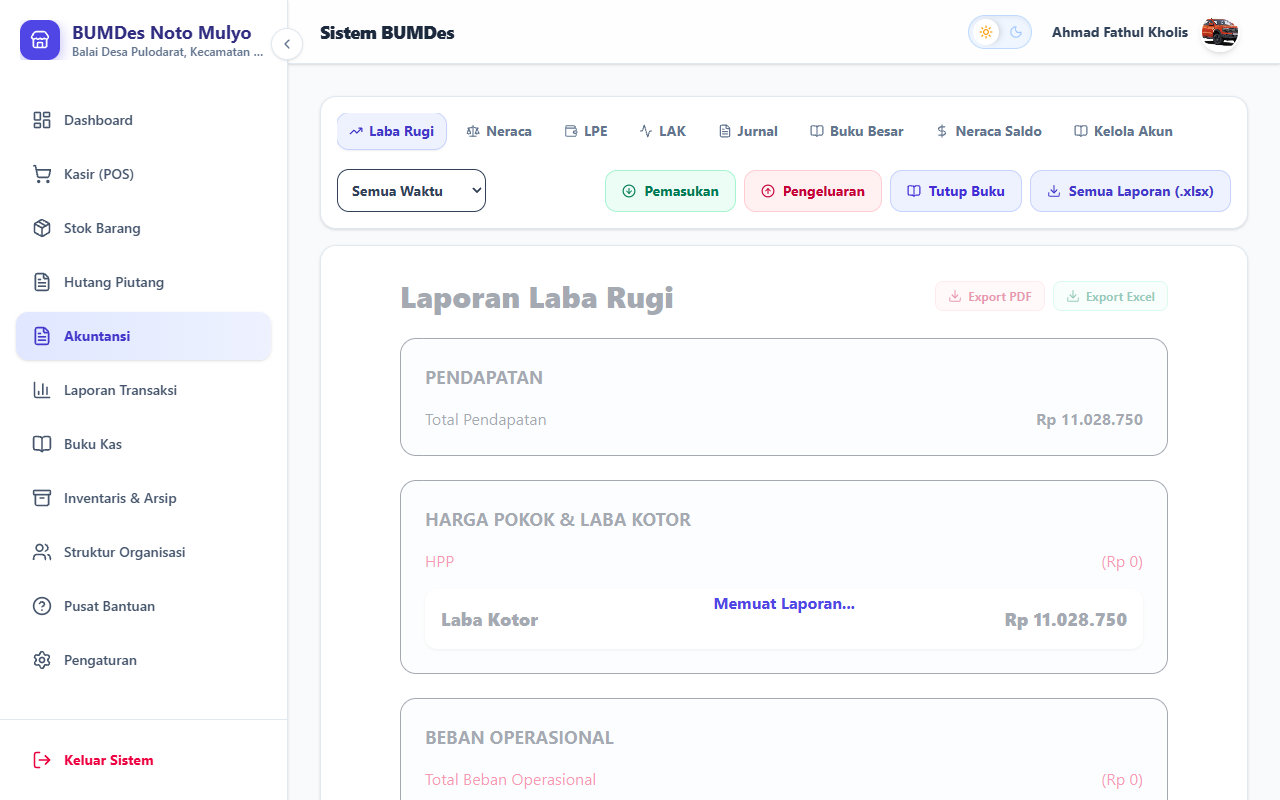
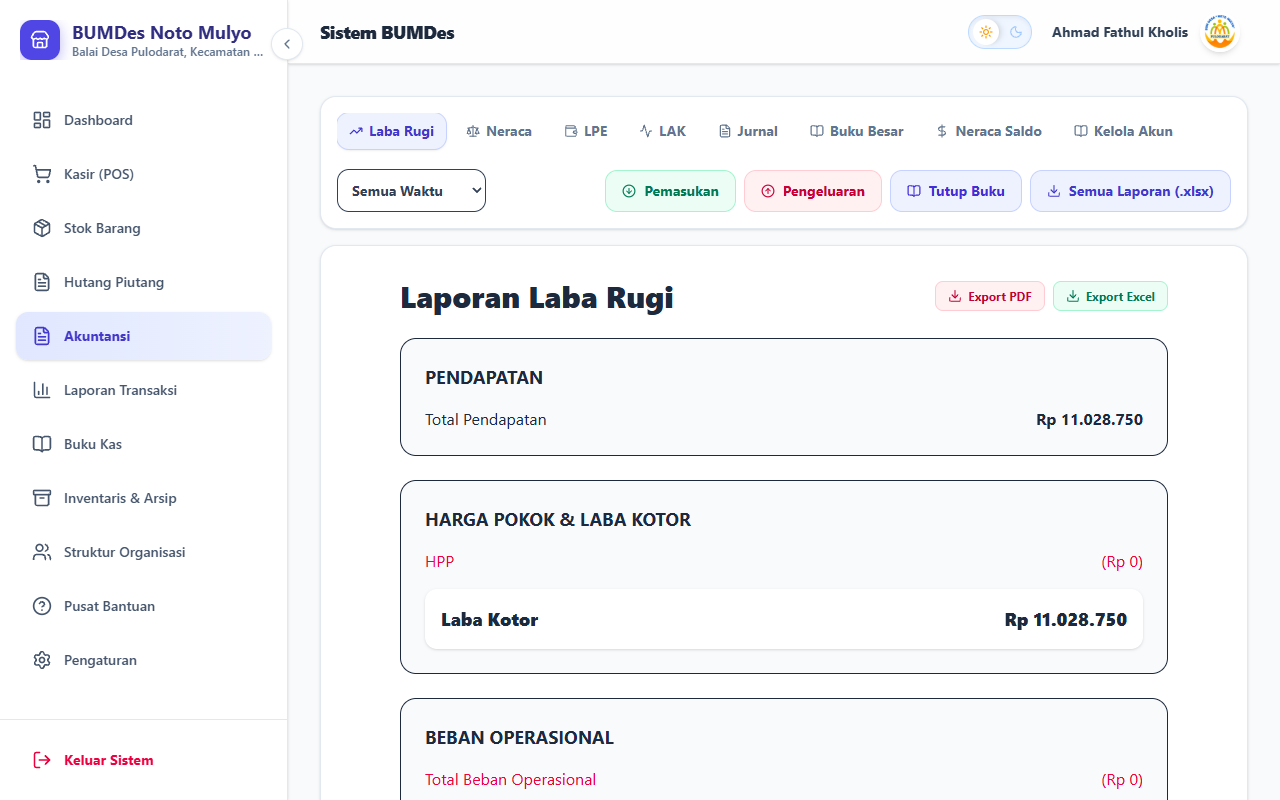
feat(docs): update BukuPanduan PDF content and screenshots

diff --git a/src/pages/BukuPanduan.tsx b/src/pages/BukuPanduan.tsx
@@ -55,6 +55,8 @@ export default function BukuPanduan() {
     const dashboardImg = await fetchImageBase64('/screenshots/dashboard.png');
     const kasirImg = await fetchImageBase64('/screenshots/kasir.png');
     const akuntansiImg = await fetchImageBase64('/screenshots/akuntansi.png');
+    const stokTambahImg = await fetchImageBase64('/screenshots/stok-tambah.png');
+    const piutangImg = await fetchImageBase64('/screenshots/piutang.png');
 
     const screenshotBox = (text: string, base64Image?: string | null): any => {
       if (base64Image) {
@@ -145,6 +147,7 @@ export default function BukuPanduan() {
           canvas: [{ type: 'rect', x: 0, y: 0, w: 515, h: 3, color: '#4F46E5' }]
         },
         { text: 'Tahun 2024', style: 'coverYear', alignment: 'center', margin: [0, 20, 0, 0] },
+        { text: 'Revisi: Agustus 2026, sesuai Versi 2.0 sistem', fontSize: 11, alignment: 'center', color: '#64748B', margin: [0, 5, 0, 0] },
         { text: '', pageBreak: 'after' },
 
         // DAFTAR ISI (TOC)
@@ -235,6 +238,15 @@ export default function BukuPanduan() {
             { text: 'Di bagian bawah, terdapat tabel peringatan Piutang Belum Lunas. Segera hubungi pelanggan yang bersangkutan jika tanggal jatuh tempo sudah lewat.', style: 'listItem' }
           ]
         },
+        { text: '2. Laporan Transaksi', style: 'h2' },
+        { text: 'Menu Laporan Transaksi memungkinkan Anda untuk melihat riwayat aktivitas secara rinci serta mencetak laporan lengkap.', style: 'paragraph' },
+        {
+          ol: [
+            { text: 'Pilih filter tanggal yang diinginkan (contoh: 1 Agustus - 31 Agustus) atau gunakan filter cepat seperti "Hari Ini" atau "Bulan Ini".', style: 'listItem' },
+            { text: 'Anda dapat melihat ringkasan total Pemasukan, Pengeluaran, dan Laba Bersih pada periode tersebut.', style: 'listItem' },
+            { text: 'Untuk mencetak laporan, klik tombol "Export PDF" untuk format dokumen cetak resmi, atau "Export Excel" untuk analisis data lebih lanjut.', style: 'listItem' }
+          ]
+        },
         { text: '', pageBreak: 'after' },
 
         // BAB 3
@@ -288,7 +300,7 @@ export default function BukuPanduan() {
           margin: [0, 0, 0, 15] as [number, number, number, number]
         },
         { text: '1. Cara Menambahkan Barang Baru', style: 'h2' },
-        screenshotBox('Tampilan Form Tambah Barang'),
+        screenshotBox('Tampilan Form Tambah Barang', stokTambahImg),
         {
           ol: [
             { text: 'Buka menu Stok Barang, lalu klik tombol "+ Tambah Barang" di pojok kanan atas.', style: 'listItem' },
@@ -316,7 +328,7 @@ export default function BukuPanduan() {
           layout: 'lightHorizontalLines',
           margin: [0, 0, 0, 15] as [number, number, number, number]
         },
-        screenshotBox('Tabel Piutang Pelanggan'),
+        screenshotBox('Tabel Piutang Pelanggan', piutangImg),
         { text: '1. Cara Mencatat Warga yang Kasbon (Piutang)', style: 'h2' },
         {
           ol: [
@@ -342,7 +354,7 @@ export default function BukuPanduan() {
           ]
         },
 
-        { text: '1. Laporan Laba Rugi', style: 'h2' },
+        { text: '2. Laporan Laba Rugi', style: 'h2' },
         screenshotBox('Laporan Laba Rugi Akuntansi', akuntansiImg),
         {
           ol: [
@@ -422,6 +434,17 @@ export default function BukuPanduan() {
             { text: 'Laba Bersih: Keuntungan murni setelah dipotong semua biaya operasional (listrik, gaji, dll).', style: 'listItem' },
             { text: 'Kasbon / Piutang: Uang yang dipinjam oleh warga, atau barang yang diambil warga tapi belum dibayar lunas.', style: 'listItem' },
             { text: 'Jurnal Umum: Buku catatan akuntansi yang mencatat setiap kejadian keuangan menjadi dua sisi (Debit dan Kredit) agar seimbang.', style: 'listItem' }
+          ]
+        },
+
+        { text: 'PUSAT BANTUAN SISTEM', style: 'h1', tocItem: true, margin: [0, 20, 0, 10] as [number, number, number, number] },
+        { text: 'Selain membaca Buku Panduan ini, Anda juga dapat mengakses menu "Pusat Bantuan" langsung dari sidebar aplikasi Anda.', style: 'paragraph' },
+        { text: 'Pusat Bantuan dalam aplikasi menyediakan:', style: 'paragraph' },
+        {
+          ul: [
+            { text: 'Pertanyaan yang Sering Diajukan (FAQ) interaktif yang bisa langsung Anda klik tanpa perlu membaca seluruh buku panduan.', style: 'listItem' },
+            { text: 'Tips Harian yang selalu diperbarui untuk membantu efisiensi operasional BUMDes.', style: 'listItem' },
+            { text: 'Tombol untuk menghubungi Tim IT secara cepat via WhatsApp.', style: 'listItem' }
           ]
         },
 

diff --git a/scripts/generate-screenshots.js b/scripts/generate-screenshots.js
@@ -77,6 +77,56 @@ async function run() {
     await page.screenshot({ path: path.join(SCREENSHOT_DIR, 'akuntansi.png') });
     console.log('✅ Screenshot Akuntansi tersimpan.');
 
+    // 5. HALAMAN STOK (TAMBAH BARANG)
+    console.log('🚗 Menuju halaman Stok...');
+    await page.goto(`${APP_URL}/admin/stok`, { waitUntil: 'domcontentloaded', timeout: 60000 });
+    await delay(2000);
+    console.log('📝 Membuka modal Tambah Barang dan mengisi data...');
+    // Klik tombol Tambah Barang (cari tombol yang teksnya mengandung "Tambah Barang")
+    await page.evaluate(() => {
+      const buttons = Array.from(document.querySelectorAll('button'));
+      const btn = buttons.find(b => b.textContent && b.textContent.includes('Tambah Barang'));
+      if (btn) btn.click();
+    });
+    await delay(1000); // tunggu modal muncul
+    
+    // Isi form Tambah Barang dengan data realistis
+    // Selectors bedasarkan placeholder: "Kode (SKU)", "Nama Barang", "Stok", "HPP", "Harga Jual"
+    await page.evaluate(() => {
+      const inputs = Array.from(document.querySelectorAll('input'));
+      const setInputValue = (input, value) => {
+        if (!input) return;
+        const nativeInputValueSetter = Object.getOwnPropertyDescriptor(window.HTMLInputElement.prototype, "value").set;
+        nativeInputValueSetter.call(input, value);
+        input.dispatchEvent(new Event('input', { bubbles: true }));
+      };
+
+      const inputSKU = inputs.find(i => i.placeholder === 'Kode (SKU)');
+      const inputName = inputs.find(i => i.placeholder === 'Nama Barang');
+      const inputStok = inputs.find(i => i.placeholder === 'Stok');
+      const inputHPP = inputs.find(i => i.placeholder === 'HPP');
+      const inputHarga = inputs.find(i => i.placeholder === 'Harga Jual');
+
+      if(inputSKU) setInputValue(inputSKU, 'BRG-PUPUK-01');
+      if(inputName) setInputValue(inputName, 'Pupuk Urea Non-Subsidi 50Kg');
+      if(inputStok) setInputValue(inputStok, '25');
+      if(inputHPP) setInputValue(inputHPP, '180000');
+      if(inputHarga) setInputValue(inputHarga, '195000');
+    });
+    
+    await delay(1000);
+    console.log('📸 Mengambil Screenshot Form Tambah Barang...');
+    await page.screenshot({ path: path.join(SCREENSHOT_DIR, 'stok-tambah.png') });
+    console.log('✅ Screenshot Stok Tambah tersimpan.');
+
+    // 6. HALAMAN HUTANG PIUTANG (TAB PIUTANG)
+    console.log('🚗 Menuju halaman Hutang Piutang...');
+    await page.goto(`${APP_URL}/admin/hutang-piutang`, { waitUntil: 'domcontentloaded', timeout: 60000 });
+    await delay(2000); // tunggu data dimuat. default sudah di tab piutang.
+    console.log('📸 Mengambil Screenshot Piutang...');
+    await page.screenshot({ path: path.join(SCREENSHOT_DIR, 'piutang.png') });
+    console.log('✅ Screenshot Piutang tersimpan.');
+
     console.log('\n🎉 SEMUA TUGAS SELESAI!');
     console.log(`Silakan cek folder: ${SCREENSHOT_DIR}`);
 
